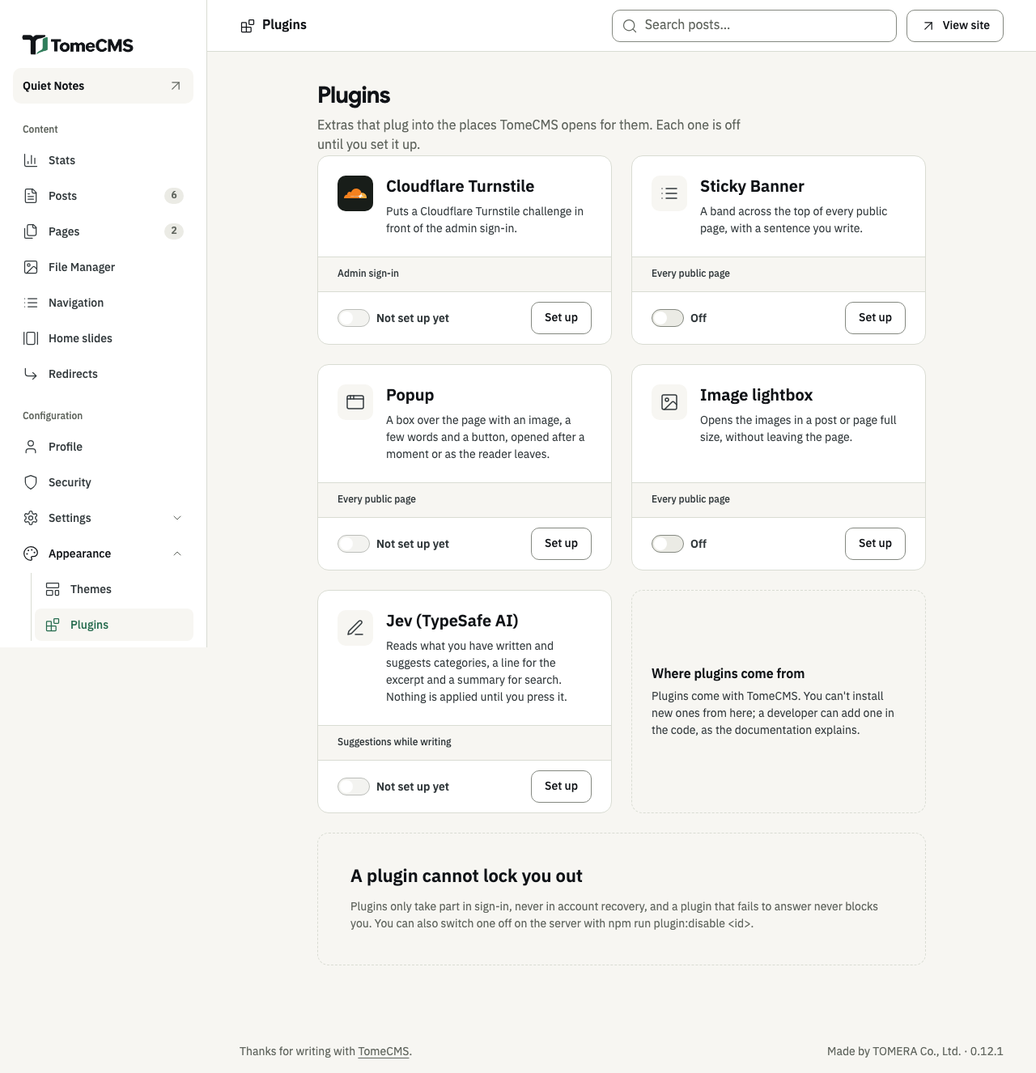
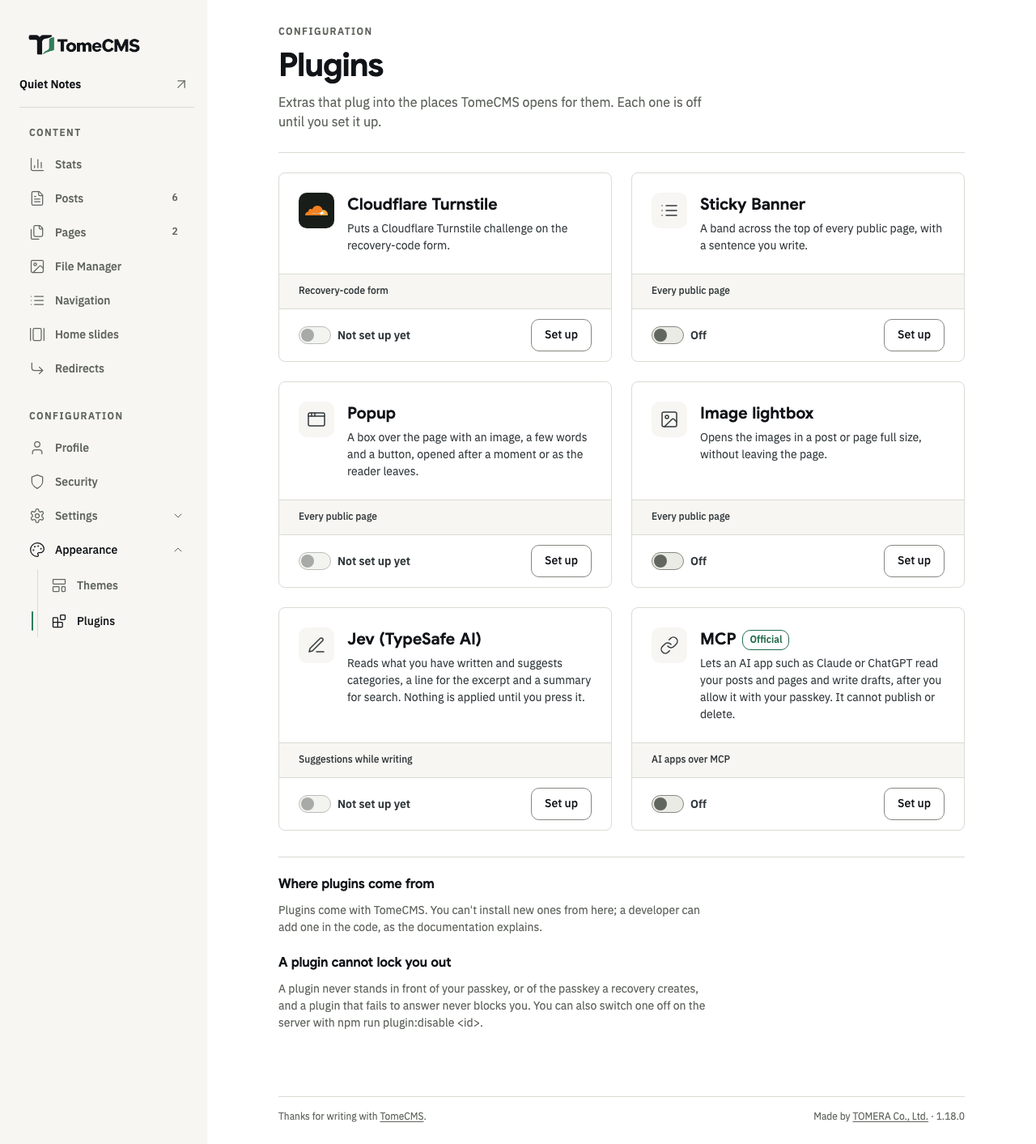
docs: Settings, Plugins and Security as 1.19.0 shows them
New pictures of the three screens that changed, in English and Thai, and
alt texts that say what is in them now: the two site descriptions, the
share image and Search results in Settings; six plugin cards with MCP,
and Turnstile acting on the recovery-code form; Add a device and the
line saying where a passkey lives in Security. Settings explains the
share image and the description for each language.

The screenshot seed writes both descriptions and a share image, and
gives the signed-in passkey Google's AAGUID so Security shows the
provider line a real passkey has. The other screens were left as they
were: shot again, they differ by the admin's redesign in 1.4.0, and
bringing them up to date means rewriting their descriptions too, which
is a change of its own.

diff --git a/website/scripts/screenshots.ts b/website/scripts/screenshots.ts
@@ -126,6 +126,9 @@ try {
     await signIn(context, page);
     const { sql } = await import('kysely');
     const { db } = await import('../../src/server/db/client');
+    // The virtual authenticator is no provider anyone has heard of, so Security would show no
+    // line saying where the passkey lives. Google's AAGUID gives it the line a real one has.
+    await sql`update passkey set aaguid = 'ea9b8d66-4d01-1d21-3ce4-b6b48cb575d4'`.execute(db);
     for (const locale of ['en', 'th'] as const) {
       // The admin speaks the site's default language.
       await sql`update site_settings set default_locale = ${locale}`.execute(db);
@@ -186,8 +189,11 @@ async function seed(): Promise<string> {
 
   await sql`insert into "user" (id, name, email, "emailVerified", role, "createdAt", "updatedAt")
     values (${OWNER}, 'Somchai Writer', 'owner@tomecms.invalid', true, 'owner', now(), now())`.execute(db);
-  await sql`insert into site_settings (id, owner_id, site_name, default_locale, timezone, admin_path)
-    values (true, ${OWNER}, 'Quiet Notes', 'en', 'Asia/Bangkok', '/admin')`.execute(db);
+  await sql`insert into site_settings (id, owner_id, site_name, default_locale, timezone, admin_path,
+      site_description, site_description_en, site_description_th)
+    values (true, ${OWNER}, 'Quiet Notes', 'en', 'Asia/Bangkok', '/admin',
+      'Short essays on making things, in English and Thai.', 'Short essays on making things, in English and Thai.',
+      'บทความสั้นว่าด้วยการลงมือทำ ทั้งภาษาไทยและอังกฤษ')`.execute(db);
   const category = await db.insertInto('categories').values({ owner_id: OWNER, name: 'Uncategorized', is_default: true })
     .returning('id').executeTakeFirstOrThrow();
 
@@ -206,6 +212,13 @@ async function seed(): Promise<string> {
     } as never).returning('id').executeTakeFirstOrThrow()).id;
   };
   const pictures = [await picture(150, 'Morning light'), await picture(30, 'Paper and ink'), await picture(210, 'A quiet street')];
+
+  // A share image, so Settings shows the card a shared link draws.
+  const { createBrandObjectKey } = await import('../../src/server/media/keys');
+  const shareSvg = '<svg xmlns="http://www.w3.org/2000/svg" width="1200" height="630"><defs><linearGradient id="g" x2="1" y2="1"><stop offset="0" stop-color="hsl(150 45% 62%)"/><stop offset="1" stop-color="hsl(190 35% 30%)"/></linearGradient></defs><rect width="100%" height="100%" fill="url(#g)"/></svg>';
+  const shareKey = createBrandObjectKey(OWNER, 'jpg');
+  await s3.send(new PutObjectCommand({ Body: await sharp(Buffer.from(shareSvg)).jpeg({ quality: 82 }).toBuffer(), Bucket: s3Bucket, ContentType: 'image/jpeg', Key: shareKey }));
+  await sql`update site_settings set brand_share = ${JSON.stringify({ height: 630, key: shareKey, mime: 'image/jpeg', width: 1200 })}::jsonb`.execute(db);
 
   const html = (text: string) => `<p>${text}</p>`;
   const post = (locale: 'en' | 'th', title: string, text: string, cover: string, status: 'draft' | 'published', publishedAt: Date | null) =>

diff --git a/website/src/content/docs/th/admin/settings.md b/website/src/content/docs/th/admin/settings.md
@@ -1,6 +1,6 @@
 ---
 title: การตั้งค่า โปรไฟล์ และ passkey
-description: ตั้งชื่อเว็บ ใส่โลโก้และไอคอน เลือกภาษากับเขตเวลา เขียนโปรไฟล์ผู้เขียน และดูแล passkey ที่ใช้เข้าสู่ระบบ
+description: ตั้งชื่อและคำอธิบายเว็บ ใส่โลโก้ ไอคอน และรูปสำหรับแชร์ เลือกภาษากับเขตเวลา เขียนโปรไฟล์ผู้เขียน และดูแล passkey ที่ใช้เข้าสู่ระบบ
 sidebar:
   order: 7
 ---
@@ -11,7 +11,7 @@ sidebar:
 
 เปิด "ตั้งค่า" แล้วเลือก "ทั่วไป" หน้านี้มีสี่ส่วน และมีปุ่ม "บันทึก" ปุ่มเดียวอยู่ด้านล่างสำหรับทุกส่วน ระหว่างที่ยังมีการแก้ไขที่ไม่ได้บันทึก ข้อความข้างปุ่มจะขึ้นว่า "ยังไม่ได้บันทึก"
 
-![หน้า "ตั้งค่า" ที่มีการ์ดสามใบ "ข้อมูลเว็บไซต์" มี "ชื่อเว็บไซต์" เป็น Quiet Notes ช่อง "ข้อความประจำเว็บไซต์" และ "คำอธิบายเว็บไซต์" ว่างอยู่ และติ๊ก "ให้เครดิต TomeCMS ที่ท้ายเว็บ" ไว้ "โลโก้และไอคอน" มีปุ่ม "เลือกไฟล์" สำหรับ "โลโก้" "โลโก้สำหรับโหมดมืด" และ "ไอคอนเว็บ" และยังไม่ได้ติ๊ก "ซ่อนชื่อเว็บในส่วนหัว" "ภาษาและเวลา" มี "ภาษาหลักของเว็บไซต์" เป็นไทย และ "เขตเวลา" เป็น Asia/Bangkok ปุ่ม "บันทึก" อยู่ด้านล่าง](../../../../assets/screenshots/th/settings.png)
+![หน้า "ตั้งค่า" ที่มีสี่ส่วน "ข้อมูลเว็บไซต์" มี "ชื่อเว็บไซต์" เป็น Quiet Notes ช่อง "ข้อความประจำเว็บไซต์" ว่างอยู่ ตามด้วย "คำอธิบายเว็บ (ภาษาไทย)" แล้วจึงเป็น "คำอธิบายเว็บ (ภาษาอังกฤษ)" ซึ่งมีประโยคสั้น ๆ เกี่ยวกับบทความว่าด้วยการลงมือทำทั้งสองช่อง และติ๊ก "ให้เครดิต TomeCMS ที่ท้ายเว็บ" ไว้ "โลโก้และไอคอน" มีปุ่ม "เลือกไฟล์" สำหรับ "โลโก้" "โลโก้สำหรับโหมดมืด" และ "ไอคอนเว็บ" ใต้โลโก้ยังไม่ได้ติ๊ก "ซ่อนชื่อเว็บในส่วนหัว" ส่วน "รูปสำหรับแชร์" แสดงรูปสีเขียวในสัดส่วนของการ์ดลิงก์ที่แชร์ มีปุ่ม "เลือกไฟล์" และ "เอาออก" อยู่ข้างใต้ "ภาษาและเวลา" มี "ภาษาหลักของเว็บไซต์" เป็นไทย และ "เขตเวลา" เป็น Asia/Bangkok "ผลการค้นหา" ยังไม่ได้ติ๊ก "ไม่ให้เว็บนี้ขึ้นในผลการค้นหา" ปุ่ม "บันทึก" อยู่ด้านล่าง](../../../../assets/screenshots/th/settings.png)
 
 ### ข้อมูลเว็บไซต์
 
@@ -19,7 +19,7 @@ sidebar:
 | --- | --- |
 | "ชื่อเว็บไซต์" | ชื่อของเว็บ แสดงที่ส่วนหัว แท็บเบราว์เซอร์ ผลค้นหา และท้ายเว็บ ต้องกรอก ยาวไม่เกิน 120 ตัวอักษร |
 | "ข้อความประจำเว็บไซต์" | ประโยคสั้น ๆ ในหน้าแรกใต้หัวข้อใหญ่ ยาวไม่เกิน 120 ตัวอักษร ถ้าเว้นว่าง เว็บจะแสดงประโยคของตัวเองตามภาษาที่ผู้อ่านกำลังอ่าน |
-| "คำอธิบายเว็บไซต์" | ยาวไม่เกิน 160 ตัวอักษร ใช้ในผลค้นหาและตอนแชร์ลิงก์ของหน้าที่ไม่มีคำอธิบายของตัวเอง และใช้ในฟีด RSS |
+| "คำอธิบายเว็บ (ภาษาไทย)" และ "คำอธิบายเว็บ (ภาษาอังกฤษ)" | ภาษาละช่อง ยาวไม่เกินช่องละ 160 ตัวอักษร ช่องของภาษาหลักของเว็บไซต์อยู่ก่อน หน้าแรกของแต่ละภาษาใช้คำอธิบายของภาษานั้น ผลค้นหาและการแชร์ลิงก์ของหน้าในภาษานั้นที่ไม่มีคำอธิบายของตัวเองก็ใช้ด้วย ถ้าช่องไหนว่าง จะใช้คำอธิบายของอีกภาษาแทน ส่วนฟีด RSS ใช้คำอธิบายของภาษาหลัก |
 | "ให้เครดิต TomeCMS ที่ท้ายเว็บ" | ข้อความสั้น ๆ ข้างบรรทัดลิขสิทธิ์ ในธีม Paper คำว่า "TomeCMS" เป็นลิงก์ไปยังที่เก็บโค้ดของ TomeCMS และเปิดในแท็บใหม่ เปิดไว้ตั้งแต่แรก และการปิดไม่กระทบส่วนอื่นของเว็บ |
 
 ### โลโก้และไอคอน
@@ -30,6 +30,7 @@ sidebar:
 - "ซ่อนชื่อเว็บในส่วนหัว" ให้โลโก้แสดงแทนชื่อ ต้องมีโลโก้ก่อนจึงจะติ๊กได้ และค่านี้บันทึกด้วยปุ่ม "บันทึก" ชื่อเว็บไซต์ยังอยู่ในแท็บเบราว์เซอร์ ผลค้นหา และท้ายเว็บไซต์
 - "โลโก้สำหรับโหมดมืด" ไม่บังคับ ใช้แทนโลโก้หลักเมื่อเว็บไซต์อยู่ในโหมดมืด ถ้าไม่ได้ใส่ จะใช้โลโก้หลักในโหมดมืดด้วย และหน้าแอดมินจะแสดงตัวอย่างว่าโลโก้หลักอยู่บนพื้นมืดแล้วเป็นอย่างไร
 - "ไอคอนเว็บ" ใช้ในแท็บเบราว์เซอร์และบนหน้าจอหลักของโทรศัพท์ ใช้ SVG หรือ PNG ที่เป็นสี่เหลี่ยมจัตุรัส ขนาดอย่างน้อย 512 พิกเซล ไอคอนที่เล็กกว่า 180 × 180 พิกเซลจะไม่รับ
+- "รูปสำหรับแชร์" คือรูปที่ลิงก์แสดงเมื่อมีคนแชร์หน้าที่ไม่มีรูปปกไปยัง LINE, Facebook หรือ X เช่น หน้าแรก เพจ หรือบทความที่ไม่มีรูปปก ถ้าบทความมีรูปปกของตัวเอง จะใช้รูปปกก่อน ใช้ไฟล์ PNG, JPEG หรือ WebP ส่วน SVG จะไม่รับ เพราะเว็บเหล่านั้นไม่แสดงไฟล์ SVG ระบบจะครอปรูปจากตรงกลางเป็น 1200 × 630 แล้วบันทึกเป็น JPEG โดยตัดข้อมูลที่กล้องหรือโปรแกรมแต่งรูปเขียนไว้ในไฟล์ออก
 
 ไฟล์เหล่านี้เก็บแยกจาก[คลังไฟล์](/tome-cms/th/admin/file-library/) และไม่ขึ้นในรายการของคลังไฟล์
 
@@ -66,7 +67,7 @@ sidebar:
 
 เมนู "ความปลอดภัย" เปิดหน้า "Passkey และการกู้คืน" TomeCMS ไม่มีรหัสผ่าน คุณเข้าสู่ระบบด้วย passkey ที่เก็บอยู่ในอุปกรณ์ของคุณ หน้านี้ใช้เพิ่ม passkey อันที่สอง และสร้างรหัสกู้คืนชุดใหม่ เพื่อไม่ให้การเสียอุปกรณ์เครื่องเดียวทำให้เข้าระบบไม่ได้
 
-![หน้า "Passkey และการกู้คืน" ในส่วน "Passkey ทั้งหมด" มี passkey หนึ่งอันชื่อ Recovery passkey สร้างเมื่อ 27 ก.ย. 2569 และยังไม่เคยใช้ มีปุ่มรูปดินสอและถังขยะอยู่ข้าง ๆ ข้างล่างมีช่อง "ชื่อ passkey ใหม่" และปุ่ม "เพิ่ม passkey สำรอง" ในส่วน "รหัสกู้คืน" มีปุ่ม "ยืนยันตัวตนแล้วสร้างรหัสชุดใหม่"](../../../../assets/screenshots/th/security.png)
+![หน้า "Passkey และการกู้คืน" ในส่วน "Passkey ทั้งหมด" มี passkey หนึ่งอันชื่อ Recovery passkey สร้างเมื่อ 6 ต.ค. 2569 และยังไม่เคยใช้ บรรทัดถัดมาบอกว่าเก็บอยู่ใน Google Password Manager และใช้ได้จาก Chrome ที่ลงชื่อเข้าใช้บัญชี Google เดียวกันบนคอมพิวเตอร์เครื่องอื่น มีปุ่มรูปดินสอและถังขยะอยู่ข้าง ๆ ข้างล่างมีช่อง "ชื่อ passkey ใหม่" และปุ่ม "เพิ่ม passkey สำรอง" ในส่วน "เพิ่มอุปกรณ์" มีปุ่ม "สร้างลิงก์" สำหรับเพิ่ม passkey บนเครื่องอื่น ในส่วน "รหัสกู้คืน" มีปุ่ม "ยืนยันตัวตนแล้วสร้างรหัสชุดใหม่"](../../../../assets/screenshots/th/security.png)
 
 ### Passkey ของคุณ
 

diff --git a/website/src/content/docs/th/plugins/turnstile.md b/website/src/content/docs/th/plugins/turnstile.md
@@ -13,9 +13,9 @@ Cloudflare Turnstile ใส่ challenge ของ Cloudflare ไว้ในฟ
 
 หน้า "ปลั๊กอิน" ใต้ "หน้าตาเว็บไซต์" ในกลุ่ม "การตั้งค่า" มีการ์ดของปลั๊กอินทุกตัวที่มากับ TomeCMS ทุกตัวปิดอยู่จนกว่าคุณจะเปิดเอง
 
-![หน้า "ปลั๊กอิน" มีการ์ดห้าใบ คือ "Cloudflare Turnstile" "Sticky Banner" "Popup" "Image lightbox" และ "Jev (TypeSafe AI)" แต่ละใบมีชื่อปลั๊กอินและคำอธิบายว่าทำอะไร ถัดลงมาเป็นแถบบอกว่าปลั๊กอินทำงานตรงไหน เช่น "ฟอร์มรหัสกู้คืน" หรือ "ทุกหน้าสาธารณะ" แล้วจึงเป็นสวิตช์กับปุ่ม "ตั้งค่า" การ์ด Turnstile, Popup และ Jev ขึ้นว่า "ยังไม่ได้ตั้งค่า" ส่วน Sticky Banner และ Image lightbox ขึ้นว่า "ปิด" ข้างการ์ด Jev คือการ์ด "ปลั๊กอินมาจากไหน" และข้างล่างคือ "ปลั๊กอินล็อกคุณออกจากระบบไม่ได้"](../../../../assets/screenshots/th/plugins.png)
+![หน้า "ปลั๊กอิน" มีการ์ดหกใบ คือ "Cloudflare Turnstile" "Sticky Banner" "Popup" "Image lightbox" "Jev (TypeSafe AI)" และ "MCP" ซึ่งมีป้าย "ทางการ" แต่ละใบมีชื่อปลั๊กอินและคำอธิบายว่าทำอะไร ถัดลงมาเป็นแถบบอกว่าปลั๊กอินทำงานตรงไหน เช่น "ฟอร์มรหัสกู้คืน" บนการ์ด Turnstile หรือ "ทุกหน้าสาธารณะ" แล้วจึงเป็นสวิตช์กับปุ่ม "ตั้งค่า" การ์ด Turnstile, Popup และ Jev ขึ้นว่า "ยังไม่ได้ตั้งค่า" ส่วน Sticky Banner, Image lightbox และ MCP ขึ้นว่า "ปิด" ใต้การ์ดทั้งหมดคือ "ปลั๊กอินมาจากไหน" และ "ปลั๊กอินล็อกคุณออกจากระบบไม่ได้"](../../../../assets/screenshots/th/plugins.png)
 
-แถบบนการ์ดแต่ละใบบอกว่าปลั๊กอินทำงานตรงไหน คือ "ฟอร์มรหัสกู้คืน" "ทุกหน้าสาธารณะ" หรือ "คำแนะนำระหว่างเขียน" เมื่อกดสวิตช์ท้ายการ์ด ระบบจะถามก่อน และบอกว่าปลั๊กอินจะเริ่มหรือหยุดทำอะไร กด "เปิดใช้งาน" หรือ "ปิดใช้งาน" จึงจะมีผล ส่วน "ยกเลิก" จะปล่อยปลั๊กอินไว้ตามเดิม คำข้างสวิตช์บอกสถานะ คือ "เปิด" "ปิด" หรือ "ยังไม่ได้ตั้งค่า" ถ้ายังมีการตั้งค่าที่ปลั๊กอินต้องใช้แต่ยังว่างอยู่ ปลั๊กอินที่ยังไม่ได้ตั้งค่าจะเปิดใช้ไม่ได้
+แถบบนการ์ดแต่ละใบบอกว่าปลั๊กอินทำงานตรงไหน คือ "ฟอร์มรหัสกู้คืน" "ทุกหน้าสาธารณะ" "คำแนะนำระหว่างเขียน" หรือ "แอป AI ผ่าน MCP" เมื่อกดสวิตช์ท้ายการ์ด ระบบจะถามก่อน และบอกว่าปลั๊กอินจะเริ่มหรือหยุดทำอะไร กด "เปิดใช้งาน" หรือ "ปิดใช้งาน" จึงจะมีผล ส่วน "ยกเลิก" จะปล่อยปลั๊กอินไว้ตามเดิม คำข้างสวิตช์บอกสถานะ คือ "เปิด" "ปิด" หรือ "ยังไม่ได้ตั้งค่า" ถ้ายังมีการตั้งค่าที่ปลั๊กอินต้องใช้แต่ยังว่างอยู่ ปลั๊กอินที่ยังไม่ได้ตั้งค่าจะเปิดใช้ไม่ได้
 
 ปุ่ม "ตั้งค่า" เปิดแผงการตั้งค่าของปลั๊กอินขึ้นมาทางข้างจอ ชื่อแผงคือ "ตั้งค่า" ตามด้วยชื่อปลั๊กอิน ระหว่างที่ยังขาดข้อมูลที่ต้องใช้ ด้านบนของแผงจะขึ้นว่า "กรอกข้อมูลที่จำเป็นให้ครบก่อนเปิดใช้งาน" กด "บันทึก" แล้วการ์ดจะขึ้นว่า "บันทึกแล้ว" การบันทึกไม่เปลี่ยนสถานะเปิดหรือปิดของปลั๊กอิน
 

diff --git a/website/src/content/docs/admin/settings.md b/website/src/content/docs/admin/settings.md
@@ -1,6 +1,6 @@
 ---
 title: Settings, profile and passkeys
-description: Name the site, give it a logo and an icon, choose its language and time zone, write your author profile, and look after the passkeys you sign in with.
+description: Name and describe the site, give it a logo, an icon and a share image, choose its language and time zone, write your author profile, and look after the passkeys you sign in with.
 sidebar:
   order: 7
 ---
@@ -11,7 +11,7 @@ The screens under "Configuration" hold what belongs to the site as a whole, and 
 
 Open "Settings", then "General". The screen has four parts, and one "Save" button at the bottom for all of them. While something is not saved yet, the line beside the button says "Unsaved changes".
 
-![The Settings screen with three cards. "Site identity" has "Site name" set to Quiet Notes, an empty "Tagline" and "Site description", and "Credit TomeCMS in the footer" ticked. "Logo and icon" has a "Choose a file" button each for "Logo", "Logo for the dark theme" and "Site icon", and "Hide the site name in the header" unticked. "Language and time" has "Default language" set to English and "Timezone" set to Asia/Bangkok. "Save" is at the bottom.](../../../assets/screenshots/en/settings.png)
+![The Settings screen in four parts. "Site identity" has "Site name" set to Quiet Notes, an empty "Tagline", "Site description (English)" and then "Site description (Thai)", each holding a sentence about short essays on making things, and "Credit TomeCMS in the footer" ticked. "Logo and icon" has a "Choose a file" button each for "Logo", "Logo for the dark theme" and "Site icon", with "Hide the site name in the header" unticked under the logo, and "Share image" shows a green picture in the shape of a shared link's card, with "Choose a file" and "Remove" under it. "Language and time" has "Default language" set to English and "Timezone" set to Asia/Bangkok. "Search results" has "Keep this site out of search results" unticked. "Save" is at the bottom.](../../../assets/screenshots/en/settings.png)
 
 ### Site identity
 
@@ -19,7 +19,7 @@ Open "Settings", then "General". The screen has four parts, and one "Save" butto
 | --- | --- |
 | "Site name" | The site's name, in the header, the browser tab, search results and the footer. It is required, up to 120 characters. |
 | "Tagline" | A short line on the home page, under the headline, up to 120 characters. Left empty, the site shows a line of its own in the reader's language. |
-| "Site description" | Up to 160 characters, for search results and shared links on any page without a description of its own, and for the RSS feed. |
+| "Site description (English)" and "Site description (Thai)" | One for each language, up to 160 characters each, with the site's default language first. Each language's home page uses its own, and so do search results and shared links for a page in that language without a description of its own. When one is empty, the other language's is used. The RSS feed uses the default language's. |
 | "Credit TomeCMS in the footer" | A quiet line beside the copyright. On Paper the word "TomeCMS" in it links to TomeCMS's repository, in a new tab. It is on to begin with, and turning it off changes nothing else. |
 
 ### Logo and icon
@@ -30,6 +30,7 @@ A file here applies as soon as you choose it, without "Save", and the admin says
 - "Hide the site name in the header" lets the logo stand in for the name. It needs a logo, and it is saved with "Save". The name stays in the tab, in search results and in the footer.
 - "Logo for the dark theme" is optional, and is shown in place of the logo while the site is dark. Without one, the logo is used on the dark theme as well, and the admin shows a preview of it there.
 - "Site icon" is for the browser tab and a phone's home screen. Use a square SVG or PNG, at least 512 pixels across. An icon under 180 × 180 pixels is refused.
+- "Share image" is the picture a link shows when a page without a cover is shared on LINE, Facebook or X: the home page, a page, or a post with no cover. A post's own cover still comes first. Use PNG, JPEG or WebP. An SVG is refused, because those sites do not show one. The picture is cropped from the centre to 1200 × 630 and saved as a JPEG, without the details a camera or an editor writes into the file.
 
 These files are kept apart from [the file library](/tome-cms/admin/file-library/), and are not listed there.
 
@@ -66,7 +67,7 @@ Press "Save". When you change the site name, the language, the time zone or this
 
 "Security" opens "Passkeys and recovery". TomeCMS has no password: you sign in with a passkey your device keeps. This screen is where you add a second one and replace your recovery codes, so that losing a device does not lock you out.
 
-![The Passkeys and recovery screen. Under "Passkeys" is one passkey, "Recovery passkey", created on Sep 27, 2026 and never used, with a pencil and a bin beside it. Below it are the "New passkey name" field and "Add a spare passkey". Under "Recovery codes" is the button "Verify and create new codes".](../../../assets/screenshots/en/security.png)
+![The Passkeys and recovery screen. Under "Passkeys" is one passkey, "Recovery passkey", created on Oct 6, 2026 and never used, with a line saying it is kept in Google Password Manager and works in Chrome signed in to the same Google account on another computer, and a pencil and a bin beside it. Below it are the "New passkey name" field and "Add a spare passkey". Under "Add a device" is the button "Create a link", for a passkey on another computer, phone or tablet. Under "Recovery codes" is the button "Verify and create new codes".](../../../assets/screenshots/en/security.png)
 
 ### Your passkeys
 

diff --git a/website/src/content/docs/plugins/turnstile.md b/website/src/content/docs/plugins/turnstile.md
@@ -13,9 +13,9 @@ Until 1.17.0 the challenge stood on the sign-in form. It moved because it could 
 
 "Plugins", under "Appearance" in "Configuration", has a card for each plugin that comes with TomeCMS. Every plugin is off until you switch it on.
 
-![The Plugins screen with five cards: "Cloudflare Turnstile", "Sticky Banner", "Popup", "Image lightbox" and "Jev (TypeSafe AI)". Each card has the plugin's name and what it does, then a band saying where it acts, such as "Recovery-code form" or "Every public page", then a switch and a "Set up" button. Turnstile, Popup and Jev say "Not set up yet", and Sticky Banner and Image lightbox say "Off". Beside the Jev card is "Where plugins come from", and below is "A plugin cannot lock you out".](../../../assets/screenshots/en/plugins.png)
+![The Plugins screen with six cards: "Cloudflare Turnstile", "Sticky Banner", "Popup", "Image lightbox", "Jev (TypeSafe AI)" and "MCP", which is marked "Official". Each card has the plugin's name and what it does, then a band saying where it acts, such as "Recovery-code form" on Turnstile or "Every public page", then a switch and a "Set up" button. Turnstile, Popup and Jev say "Not set up yet", and Sticky Banner, Image lightbox and MCP say "Off". Below the cards are "Where plugins come from" and "A plugin cannot lock you out".](../../../assets/screenshots/en/plugins.png)
 
-The band on each card says where the plugin acts: "Recovery-code form", "Every public page" or "Suggestions while writing". Pressing the switch at the foot of the card asks first, and says what the plugin will do or stop doing; "Switch on" or "Switch off" makes it apply, and "Cancel" leaves the plugin as it was. The word beside the switch says where it stands: "On", "Off", or "Not set up yet" while a setting the plugin needs is still empty. A plugin that is not set up cannot be switched on.
+The band on each card says where the plugin acts: "Recovery-code form", "Every public page", "Suggestions while writing" or "AI apps over MCP". Pressing the switch at the foot of the card asks first, and says what the plugin will do or stop doing; "Switch on" or "Switch off" makes it apply, and "Cancel" leaves the plugin as it was. The word beside the switch says where it stands: "On", "Off", or "Not set up yet" while a setting the plugin needs is still empty. A plugin that is not set up cannot be switched on.
 
 "Set up" opens the plugin's settings at the side of the screen, under "Set up" and the plugin's name. While something it needs is missing, the top of the drawer says "Fill in what it needs before switching it on." Press "Save" and the card says "Saved." Saving leaves the plugin on or off, as it was.
 
